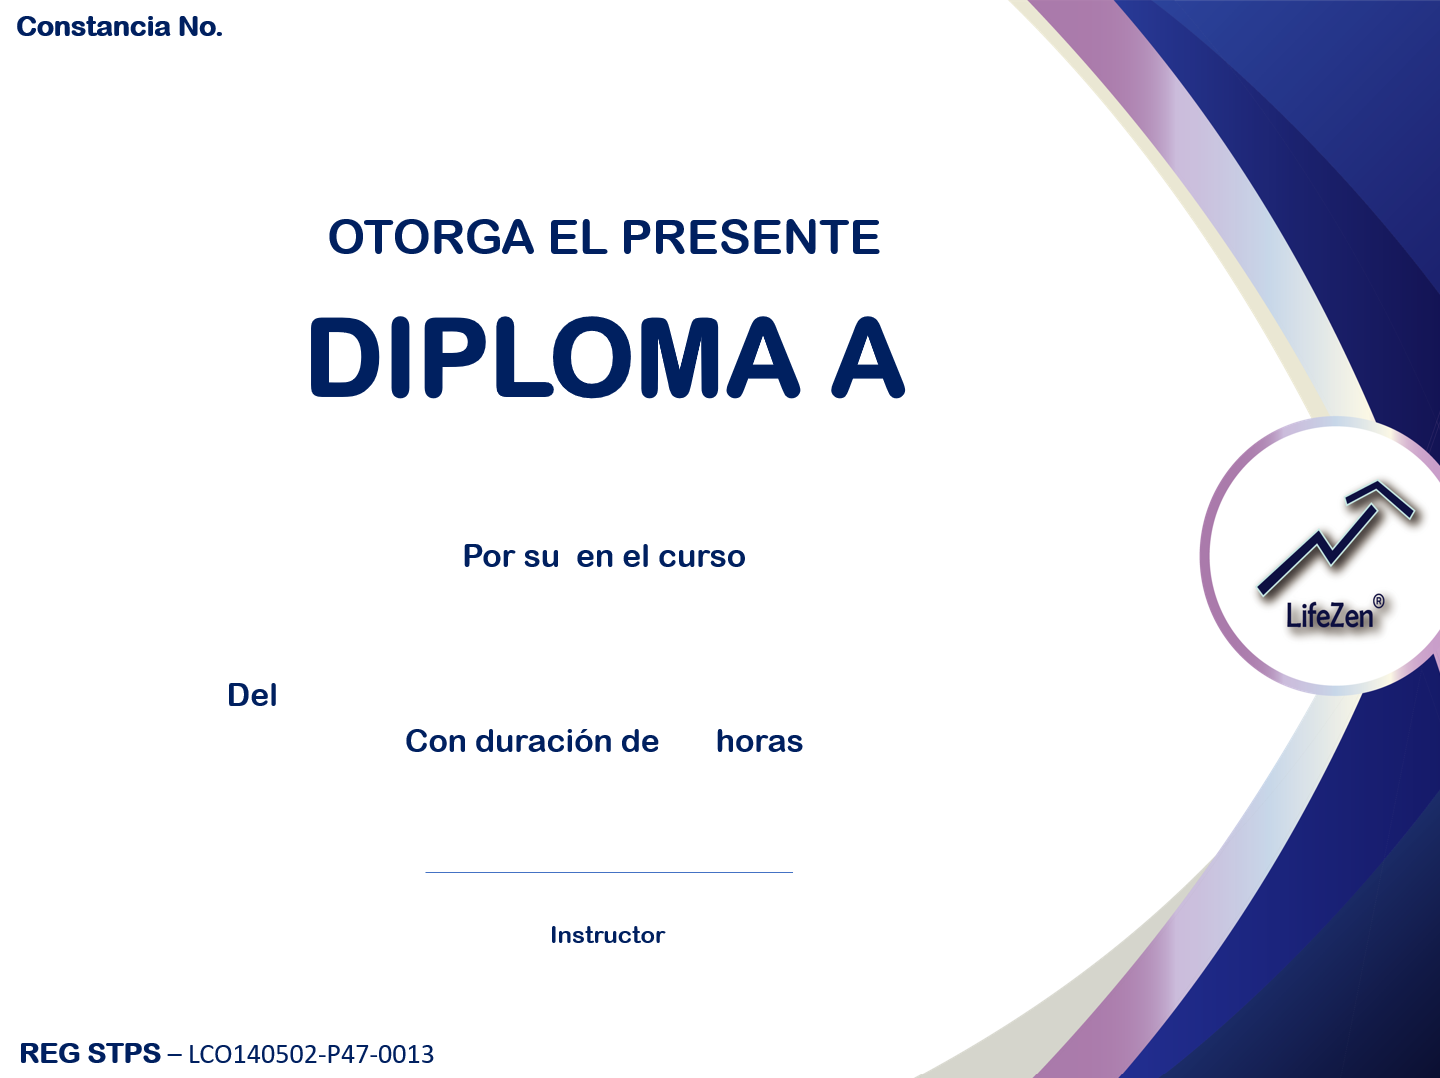
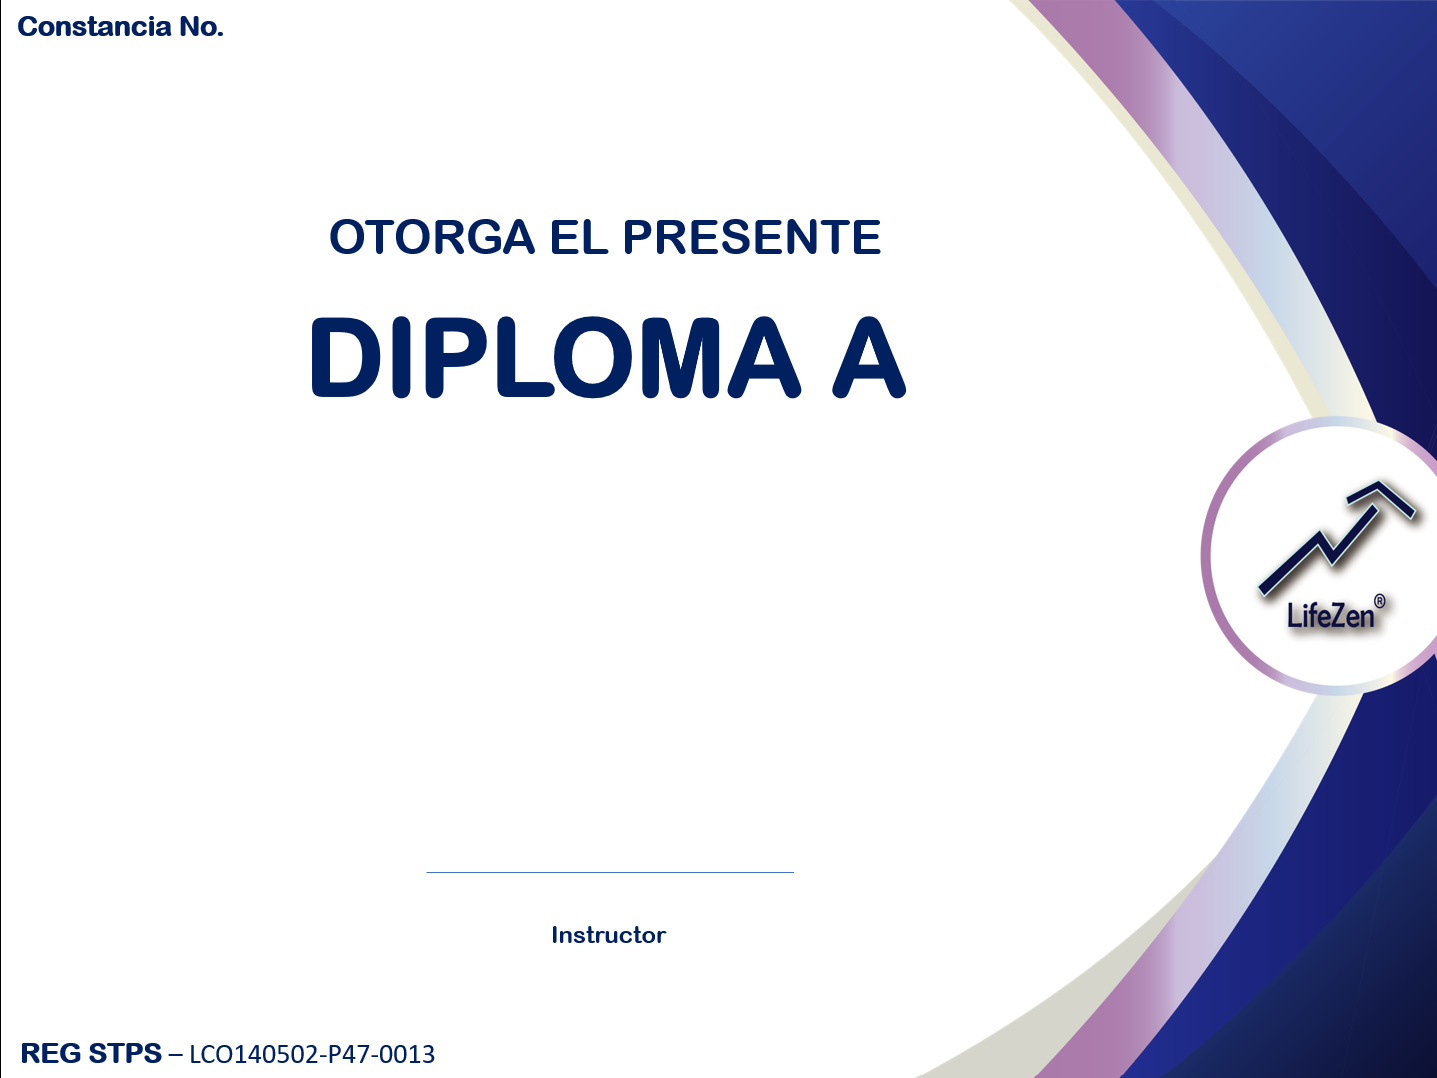
Diplomas: plantilla completamente en blanco (sin líneas de texto fijas)
Reemplaza el fondo por la versión que Alfredo mandó sin "Por su ___ en el
curso" ni "Con duración de ___ horas" horneados — antes chocaban con el
texto dinámico que ya dibuja el código completo. Ajusta el ancho de página a
1437px (tamaño real de este export, antes 1440).

diff --git a/api/src/diploma-pdf.js b/api/src/diploma-pdf.js
@@ -1,10 +1,10 @@
 // Genera el PDF de un diploma con pdf-lib — NO Puppeteer ni nada basado en
 // navegador headless, no es confiable en managed functions de Static Web Apps.
 //
-// Plantilla de PRUEBA (diseño azul de Alfredo, exportado a 1440x1078px)
+// Plantilla de PRUEBA (diseño azul de Alfredo, exportado a 1437x1078px)
 // mientras define el diseño definitivo — ver api/assets/diploma-fondo-prueba.png.
 // La página del PDF se crea del mismo tamaño en puntos que la imagen en
-// píxeles (1440x1078pt) para poder usar las coordenadas del PNG directo, sin
+// píxeles (1437x1078pt) para poder usar las coordenadas del PNG directo, sin
 // conversiones. El texto dinámico se dibuja con Inter (api/assets/fonts/,
 // misma tipografía de body que ya usa el sitio) en vez de la fuente estándar
 // de PDF, para que no se note distinta a la del fondo.
@@ -42,10 +42,10 @@ const TEXTO_RESULTADO = {
 async function generarDiplomaPdf({ alumno, curso, resultado, fechaInicio, fechaFin, horas, instructor, folio }) {
   const pdfDoc = await PDFDocument.create();
   pdfDoc.registerFontkit(fontkit);
-  const page = pdfDoc.addPage([1440, 1078]);
+  const page = pdfDoc.addPage([1437, 1078]);
 
   const fondoImg = await pdfDoc.embedPng(fs.readFileSync(FONDO_PATH));
-  page.drawImage(fondoImg, { x: 0, y: 0, width: 1440, height: 1078 });
+  page.drawImage(fondoImg, { x: 0, y: 0, width: 1437, height: 1078 });
 
   const firmaImg = await pdfDoc.embedPng(fs.readFileSync(FIRMA_PATH));
   const firmaAncho = 135;
